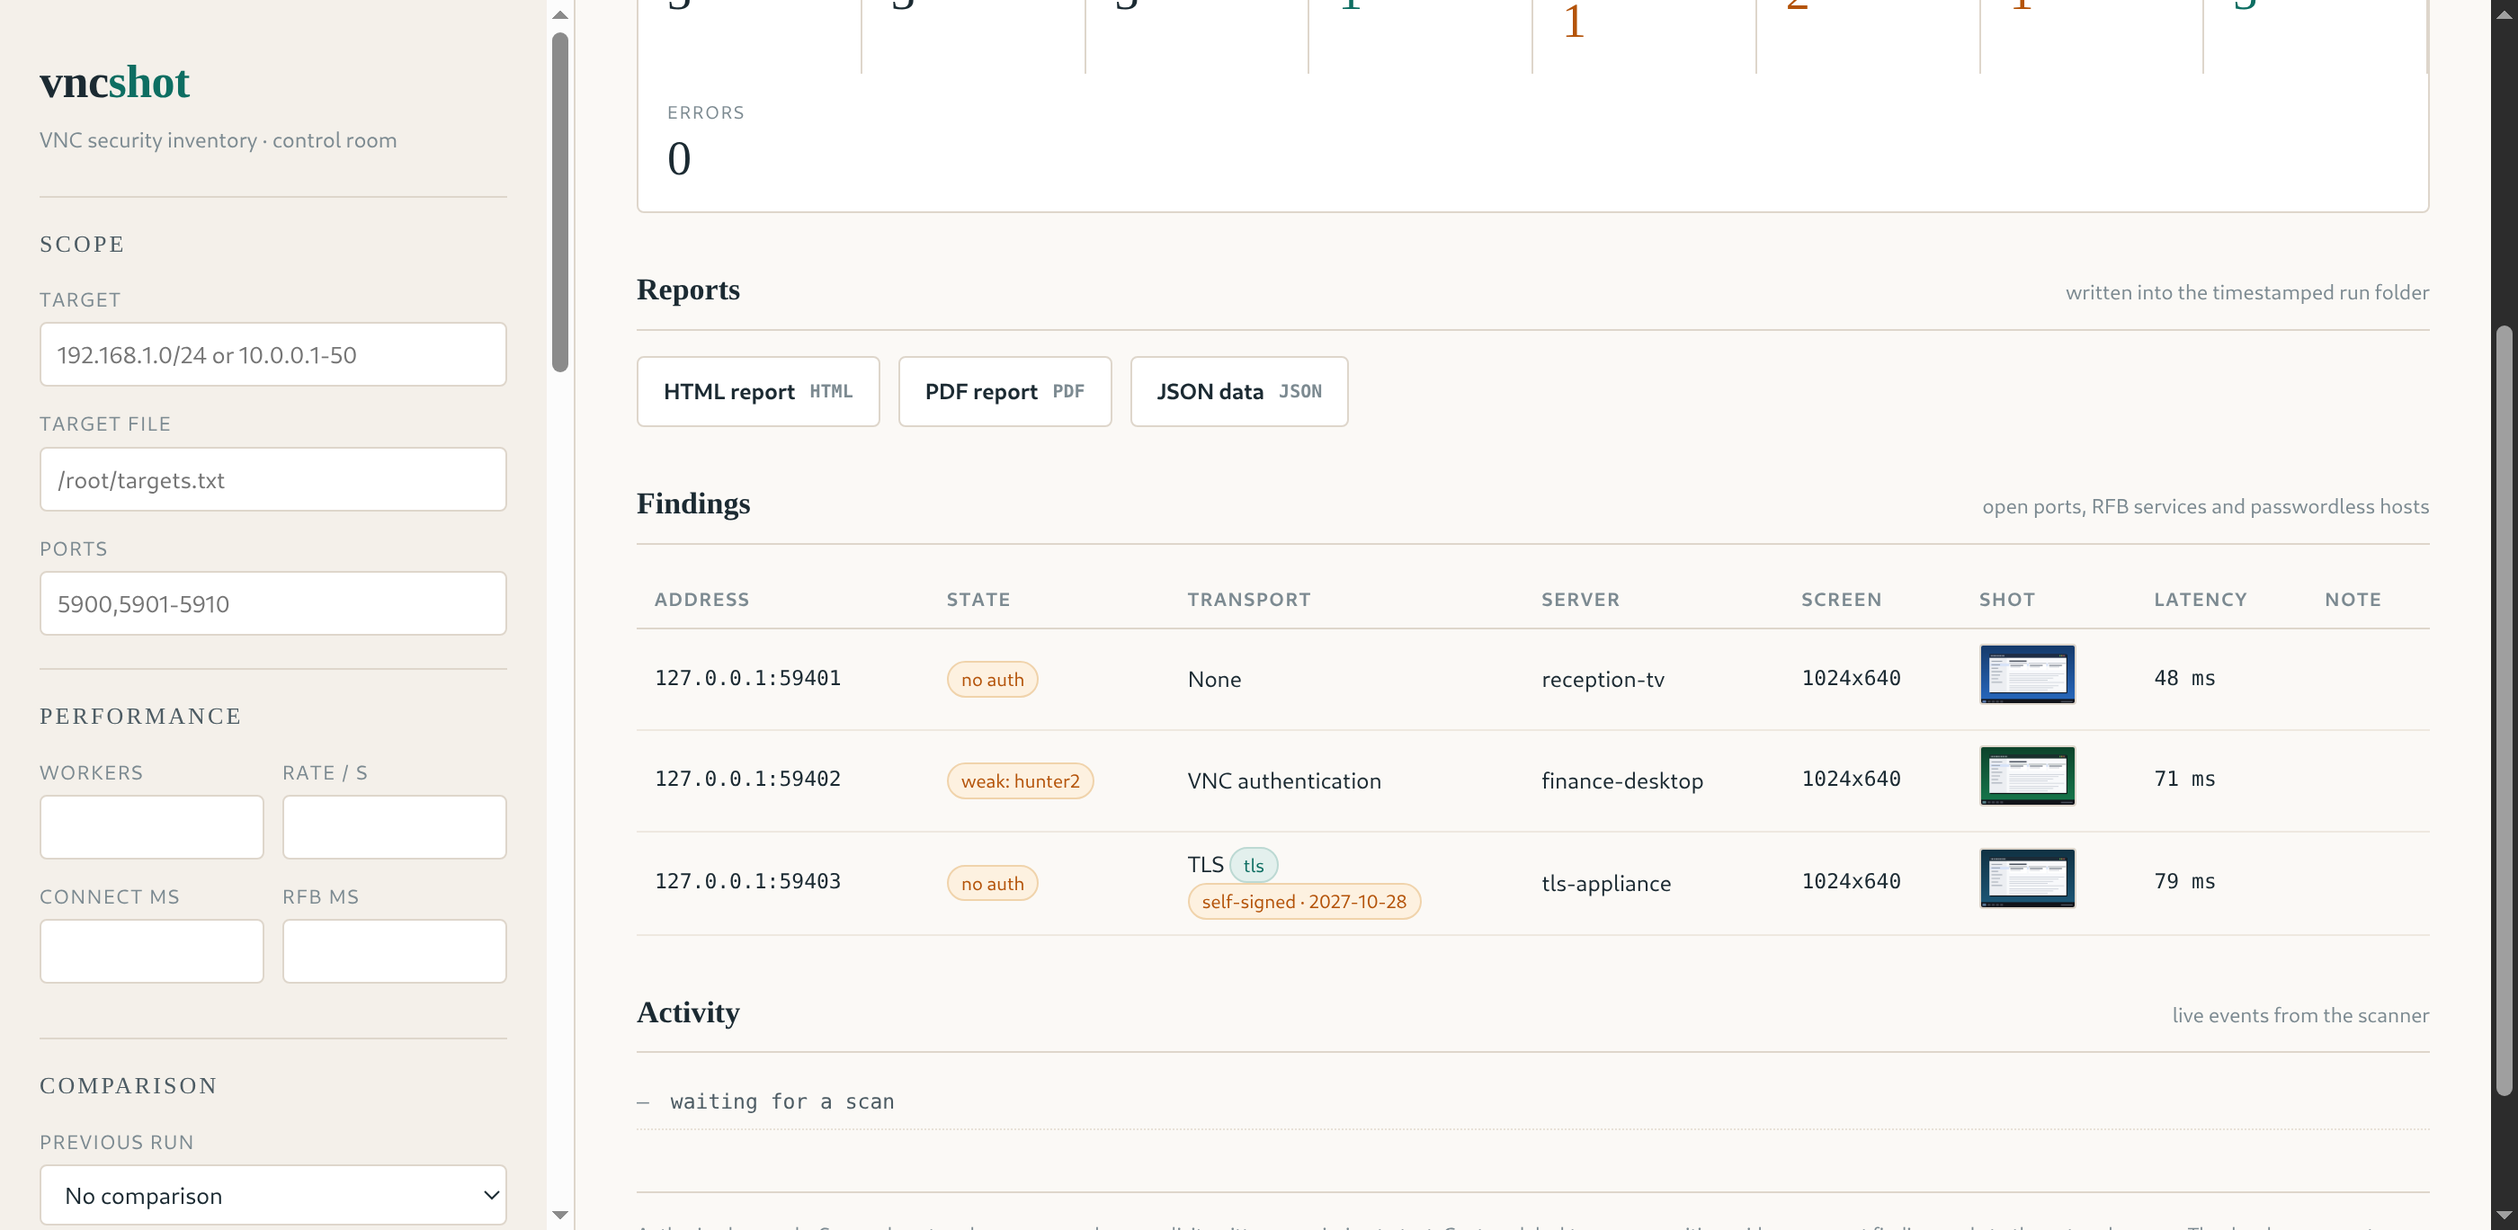
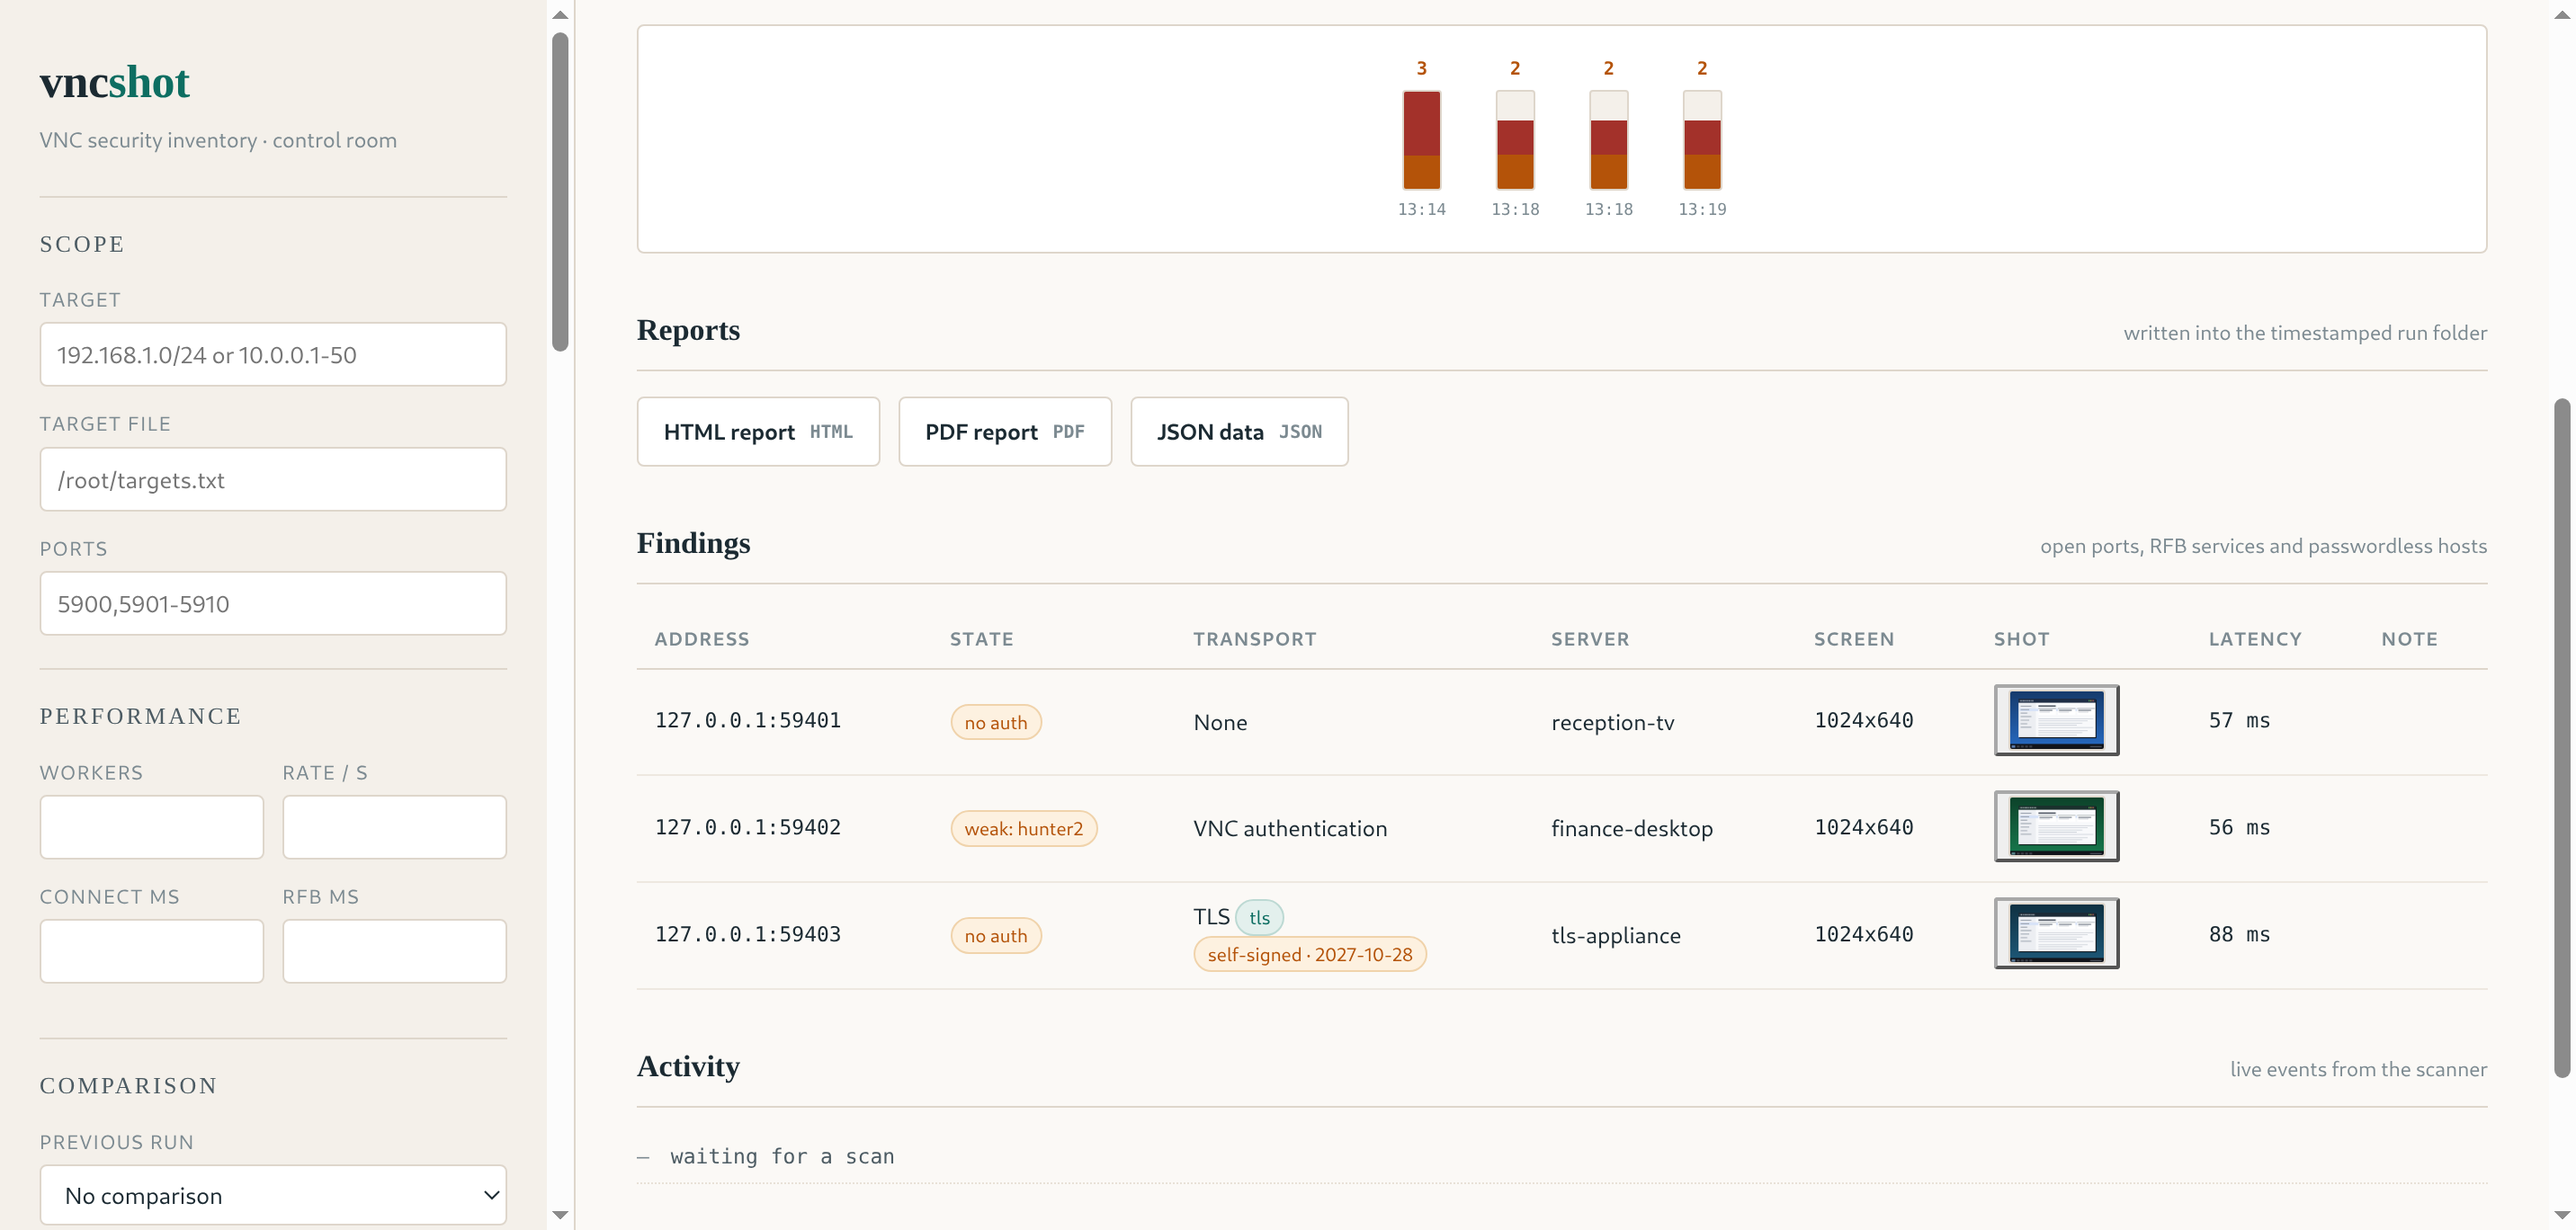
docs: refresh screenshots from the redesigned CLI and GUI
All six images come from one real scan of the loopback fixtures. The
console image is rendered from the captured terminal output of the real
binary, so its colours and progress bar are the ones the CLI now emits
rather than a hand-drawn mock. The GUI images show the balanced counter
strip, the run-trend strip with clock labels, the findings table with
clickable thumbnails, and the certificate table with the full validity
window. Captions are updated in both languages.

diff --git a/README.tr.md b/README.tr.md
@@ -14,8 +14,9 @@ Yalnızca sahibi olduğunuz veya açık yazılı izniniz bulunan ağlarda kullan
 
 ![vncshot GUI panosu](docs/screenshots/gui-dashboard.png)
 
-*Yerel GUI: canlı sayaçlar, taşıma sütunu, yakalanan kareler ve önceki tarama
-geçmişi; tümü loopback üzerinde.*
+*Yerel GUI: sayaç şeridi, tarama eğilimi sparkline'ı, yakalanan kareler ve
+önceki tarama geçmişi; tümü loopback üzerinde. Pano, işletim sisteminin açık
+veya koyu renk şemasını izler.*
 
 ## İçindekiler
 
@@ -313,8 +314,8 @@ sırasında gömer.
 
 ![vncshot konsol çıktısı](docs/screenshots/console.png)
 
-*Laboratuvar sunucularına karşı bir taramanın konsol çıktısı: ilerleme,
-özet ve üretilen rapor dosyaları.*
+*Laboratuvar sunucularına karşı bir taramanın konsol çıktısı: canlı ilerleme
+çubuğu, güvensiz sayaçları vurgulanmış özet ve üretilen rapor dosyaları.*
 
 | Bayrak | Varsayılan | Açıklama |
 |--------|-----------|----------|
@@ -796,7 +797,8 @@ Portu sabitlemek için `-gui-port`, otomatik `xdg-open` çağrısını kapatmak 
 ![Bulgu tablosu ve tarama geçmişi](docs/screenshots/gui-findings.png)
 
 *Bulgular taşıma tipini, parola kaynağını ve yakalanan karenin küçük görselini
-taşır; sol ray önceki taramaları tek tıkla erişilebilir tutar.*
+taşır; küçük görsele tıklamak sayfa içi lightbox'ı açar. Sol ray önceki
+taramaları ve karşılaştırma eylemlerini tek tıkla erişilebilir tutar.*
 
 ### GUI HTTP API
 

diff --git a/README.md b/README.md
@@ -14,8 +14,9 @@ Use only on networks you own or have explicit written permission to test.
 
 ![vncshot GUI dashboard](docs/screenshots/gui-dashboard.png)
 
-*The local GUI: live counters, transport column, captured frames and the
-previous-run history, all on loopback.*
+*The local GUI: the counter strip, the run-trend sparkline, captured frames
+and the previous-run history, all on loopback. The dashboard follows the
+operating system's light or dark colour scheme.*
 
 ## Table of contents
 
@@ -303,8 +304,8 @@ injects the release version at build time.
 
 ![vncshot console output](docs/screenshots/console.png)
 
-*Console output of a scan against lab fixtures: progress, summary and the
-generated report files.*
+*Console output of a scan against lab fixtures: live progress bar, summary
+with insecure counters highlighted and the generated report files.*
 
 | Flag | Default | Description |
 |------|---------|-------------|
@@ -786,7 +787,8 @@ automatic `xdg-open` call.
 ![Findings table and run history](docs/screenshots/gui-findings.png)
 
 *Findings carry the transport, the credential source and a thumbnail of the
-captured frame; the left rail keeps the previous runs one click away.*
+captured frame; clicking a thumbnail opens the in-page lightbox. The left rail
+keeps the previous runs and their compare actions one click away.*
 
 ### GUI HTTP API
 
